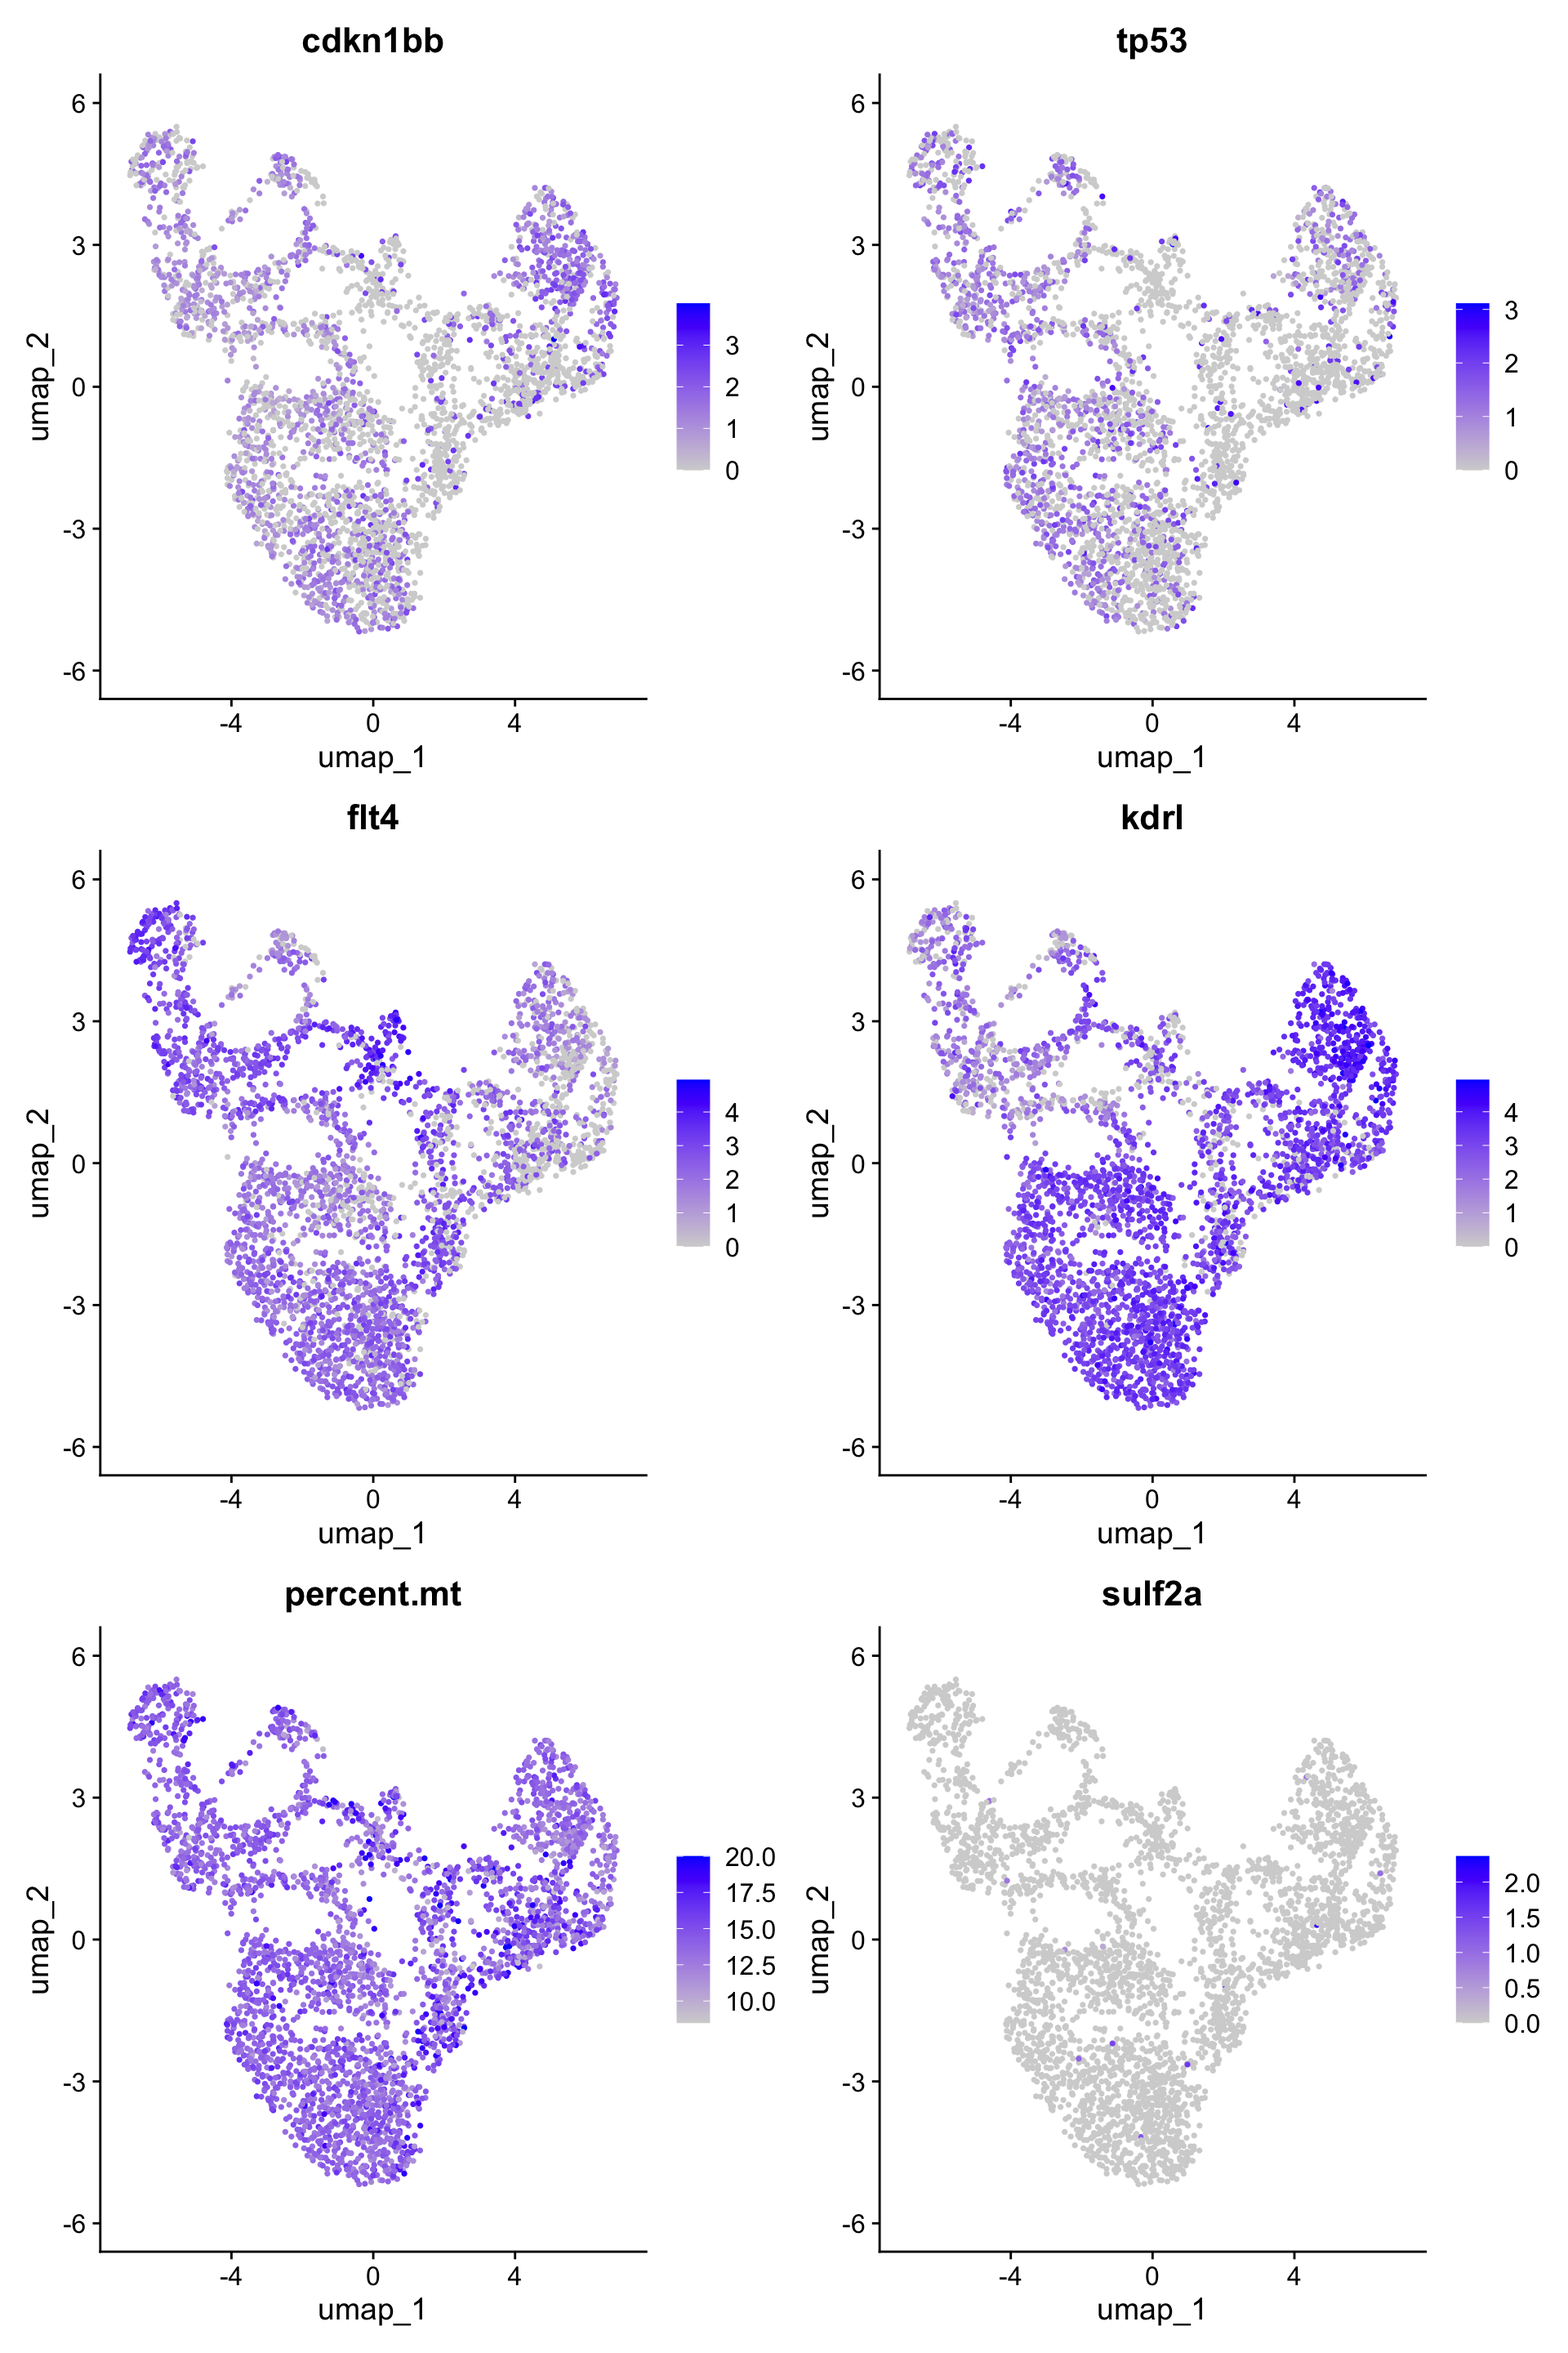
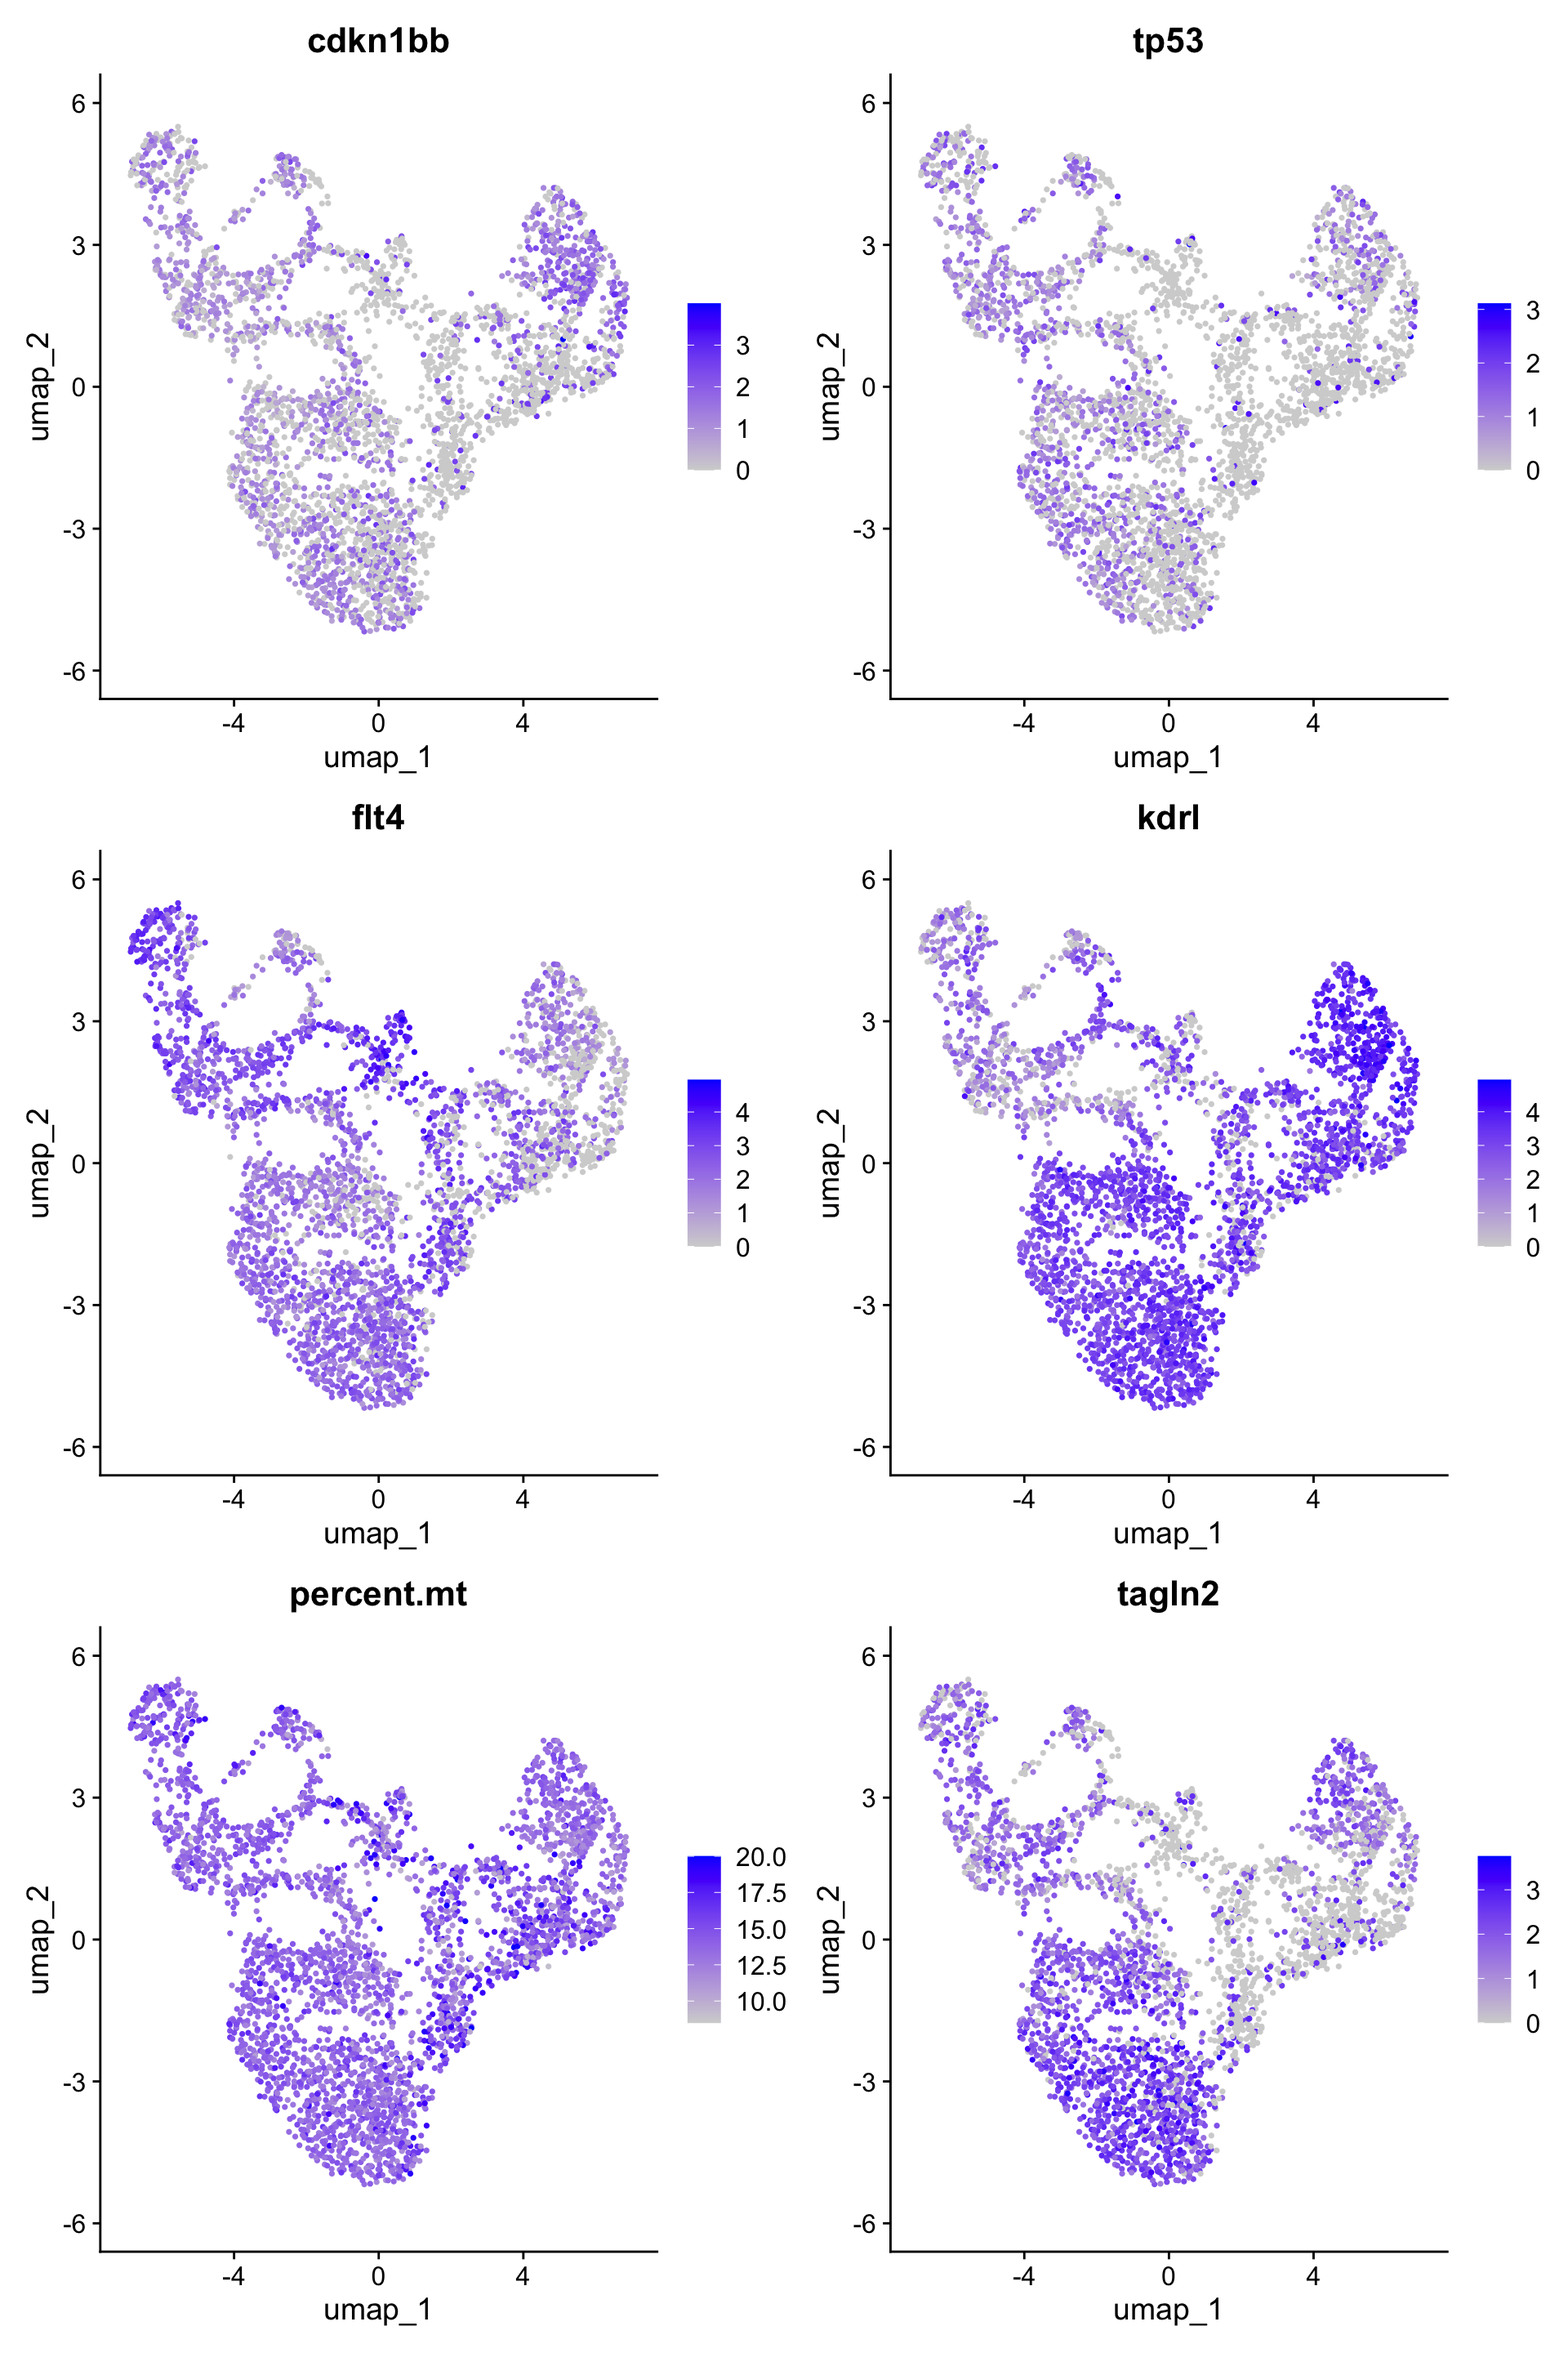
Build site.

diff --git a/docs/pre_processing_D10051_meox1_dataset_makeObject_Level03.html b/docs/pre_processing_D10051_meox1_dataset_makeObject_Level03.html
@@ -519,15 +519,15 @@ project makes it easier to run your code on other machines.</p>
 <div class="panel panel-default">
 <div class="panel-heading">
 <p class="panel-title">
-<a data-toggle="collapse" data-parent="#workflowr-checks" href="#strongRepositoryversionstrongahrefsshgitatlassianpetermacorgau7999hlwflowyap1meox1papertreeca29fdef3a09d66ba2180f88523121b87e1493d4targetblankca29fdea">
+<a data-toggle="collapse" data-parent="#workflowr-checks" href="#strongRepositoryversionstrongahrefsshgitatlassianpetermacorgau7999hlwflowyap1meox1papertree27ff189da5c6510a8d7f5a1b1b13786b9af16ce0targetblank27ff189a">
 <span class="glyphicon glyphicon-ok text-success"
 aria-hidden="true"></span> <strong>Repository version:</strong>
-<a href="ssh://git@atlassian.petermac.org.au:7999/hl/wflow_yap1_meox1_paper/tree/ca29fdef3a09d66ba2180f88523121b87e1493d4" target="_blank">ca29fde</a>
+<a href="ssh://git@atlassian.petermac.org.au:7999/hl/wflow_yap1_meox1_paper/tree/27ff189da5c6510a8d7f5a1b1b13786b9af16ce0" target="_blank">27ff189</a>
 </a>
 </p>
 </div>
 <div
[2 lines of base64/hex data omitted]
 class="panel-collapse collapse">
 <div class="panel-body">
 <p>
@@ -537,7 +537,7 @@ reproducibility.
 </p>
 <p>
 The results in this page were generated with repository version
-<a href="ssh://git@atlassian.petermac.org.au:7999/hl/wflow_yap1_meox1_paper/tree/ca29fdef3a09d66ba2180f88523121b87e1493d4" target="_blank">ca29fde</a>.
+<a href="ssh://git@atlassian.petermac.org.au:7999/hl/wflow_yap1_meox1_paper/tree/27ff189da5c6510a8d7f5a1b1b13786b9af16ce0" target="_blank">27ff189</a>.
 See the <em>Past versions</em> tab to see a history of the changes made
 to the R Markdown and HTML files.
 </p>
@@ -619,6 +619,40 @@ Message
 </tr>
 </thead>
 <tbody>
+<tr>
+<td>
+Rmd
+</td>
+<td>
+<a href="ssh://git@atlassian.petermac.org.au:7999/hl/wflow_yap1_meox1_paper/blob/27ff189da5c6510a8d7f5a1b1b13786b9af16ce0/analysis/pre_processing_D10051_meox1_dataset_makeObject_Level03.Rmd" target="_blank">27ff189</a>
+</td>
+<td>
+Michelle Meier
+</td>
+<td>
+2026-06-21
+</td>
+<td>
+wflow_publish("analysis/pre_processing_D10051_meox1_dataset_makeObject_Level03.Rmd")
+</td>
+</tr>
+<tr>
+<td>
+html
+</td>
+<td>
+<a href="ssh://git@atlassian.petermac.org.au:7999/hl/wflow_yap1_meox1_paper/blob/675a1e0b51756815072b9acd05d407a01887abad/docs/pre_processing_D10051_meox1_dataset_makeObject_Level03.html" target="_blank">675a1e0</a>
+</td>
+<td>
+Michelle Meier
+</td>
+<td>
+2026-06-21
+</td>
+<td>
+Build site.
+</td>
+</tr>
 <tr>
 <td>
 Rmd
@@ -755,8 +789,8 @@ list_objects$D10051_meox1_dataset_Level_03 &lt;- run_subset_lecvec(list_objects$
 <pre class="r"><code>list_objects$D10051_meox1_dataset_Level_02_kept_doublets_annotated &lt;- list_objects$D10051_meox1_dataset_Level_02_annotated &lt;- NULL
 gc()</code></pre>
 <pre><code>           used  (Mb) gc trigger   (Mb) limit (Mb)  max used   (Mb)
-Ncells 12048873 643.5   19738832 1054.2         NA  16746022  894.4
-Vcells 87077870 664.4  281444112 2147.3      49152 348043885 2655.4</code></pre>
+Ncells 12048844 643.5   19640571 1049.0         NA  16745993  894.4
+Vcells 87078018 664.4  281444455 2147.3      49152 348044033 2655.4</code></pre>
 <p>Replace name in object</p>
 <pre class="r"><code>list_objects$D10051_meox1_dataset_Level_03_kept_doublets@misc$name &lt;- &quot;Level_03_kept_doublets&quot;
 list_objects$D10051_meox1_dataset_Level_03@misc$name &lt;- &quot;Level_03&quot;</code></pre>
@@ -819,21 +853,21 @@ Negative:  emid1, diaph2, podxl, CR848683.2, cav1, col8a2, tmem108, lrmda, pola1
 <pre><code>Warning: The default method for RunUMAP has changed from calling Python UMAP via reticulate to the R-native UWOT using the cosine metric
 To use Python UMAP via reticulate, set umap.method to &#39;umap-learn&#39; and metric to &#39;correlation&#39;
 This message will be shown once per session</code></pre>
-<pre><code>17:08:48 UMAP embedding parameters a = 0.9922 b = 1.112</code></pre>
-<pre><code>17:08:48 Read 4418 rows and found 30 numeric columns</code></pre>
-<pre><code>17:08:48 Using Annoy for neighbor search, n_neighbors = 30</code></pre>
-<pre><code>17:08:48 Building Annoy index with metric = cosine, n_trees = 50</code></pre>
+<pre><code>17:27:56 UMAP embedding parameters a = 0.9922 b = 1.112</code></pre>
+<pre><code>17:27:56 Read 4418 rows and found 30 numeric columns</code></pre>
+<pre><code>17:27:56 Using Annoy for neighbor search, n_neighbors = 30</code></pre>
+<pre><code>17:27:56 Building Annoy index with metric = cosine, n_trees = 50</code></pre>
 <pre><code>0%   10   20   30   40   50   60   70   80   90   100%</code></pre>
 <pre><code>[----|----|----|----|----|----|----|----|----|----|</code></pre>
 <pre><code>**************************************************|
-17:08:48 Writing NN index file to temp file /var/folders/cx/d_5b9pls2cq2mv2m5jlps271lnn8nd/T//RtmpgXT0U0/file15a2612c779c7
-17:08:48 Searching Annoy index using 1 thread, search_k = 3000
-17:08:49 Annoy recall = 100%
-17:08:49 Commencing smooth kNN distance calibration using 1 thread with target n_neighbors = 30
-17:08:50 Initializing from normalized Laplacian + noise (using RSpectra)
-17:08:50 Commencing optimization for 500 epochs, with 181930 positive edges
-17:08:50 Using rng type: pcg
-17:08:53 Optimization finished
+17:27:56 Writing NN index file to temp file /var/folders/cx/d_5b9pls2cq2mv2m5jlps271lnn8nd/T//RtmpxZDzYG/file15d3959e7f2fa
+17:27:56 Searching Annoy index using 1 thread, search_k = 3000
+17:27:57 Annoy recall = 100%
+17:27:57 Commencing smooth kNN distance calibration using 1 thread with target n_neighbors = 30
+17:27:58 Initializing from normalized Laplacian + noise (using RSpectra)
+17:27:58 Commencing optimization for 500 epochs, with 181930 positive edges
+17:27:58 Using rng type: pcg
+17:28:01 Optimization finished
 Computing nearest neighbor graph
 Computing SNN</code></pre>
 <pre><code>Modularity Optimizer version 1.3.0 by Ludo Waltman and Nees Jan van Eck
@@ -967,21 +1001,21 @@ Positive:  pola1, tmem108, prim2, ctdp1, mmrn2a, CR848683.2, rad18, pole, lig1, 
 Negative:  hmgn2, osr2, hmgb2a, cdc20, ube2c, tuba1b, tp53inp2, mafa, actb1, hmgb2b 
        si:ch73-281n10.2, h3f3b.1, kmt5ab, ccnb1, si:ch211-288g17.3, kif11, nusap1, aspm, hmga1a, h2ax1 
        hnrnpa0b, cdca8, marcksl1a, pttg1, kpna2, dlgap5, cdc14b, hspe1, glula, si:ch211-69g19.2 
-17:09:04 UMAP embedding parameters a = 0.9922 b = 1.112
-17:09:04 Read 3349 rows and found 30 numeric columns
-17:09:04 Using Annoy for neighbor search, n_neighbors = 30
-17:09:04 Building Annoy index with metric = cosine, n_trees = 50
+17:28:12 UMAP embedding parameters a = 0.9922 b = 1.112
+17:28:12 Read 3349 rows and found 30 numeric columns
+17:28:12 Using Annoy for neighbor search, n_neighbors = 30
+17:28:12 Building Annoy index with metric = cosine, n_trees = 50
 0%   10   20   30   40   50   60   70   80   90   100%
 [----|----|----|----|----|----|----|----|----|----|
 **************************************************|
-17:09:04 Writing NN index file to temp file /var/folders/cx/d_5b9pls2cq2mv2m5jlps271lnn8nd/T//RtmpgXT0U0/file15a26660c0172
-17:09:04 Searching Annoy index using 1 thread, search_k = 3000
-17:09:04 Annoy recall = 100%
-17:09:05 Commencing smooth kNN distance calibration using 1 thread with target n_neighbors = 30
-17:09:05 Initializing from normalized Laplacian + noise (using RSpectra)
-17:09:05 Commencing optimization for 500 epochs, with 136526 positive edges
-17:09:05 Using rng type: pcg
-17:09:08 Optimization finished
+17:28:12 Writing NN index file to temp file /var/folders/cx/d_5b9pls2cq2mv2m5jlps271lnn8nd/T//RtmpxZDzYG/file15d39b012933
+17:28:12 Searching Annoy index using 1 thread, search_k = 3000
+17:28:13 Annoy recall = 100%
+17:28:13 Commencing smooth kNN distance calibration using 1 thread with target n_neighbors = 30
+17:28:14 Initializing from normalized Laplacian + noise (using RSpectra)
+17:28:14 Commencing optimization for 500 epochs, with 136526 positive edges
+17:28:14 Using rng type: pcg
+17:28:16 Optimization finished
 Computing nearest neighbor graph
 Computing SNN</code></pre>
 <pre><code>Modularity Optimizer version 1.3.0 by Ludo Waltman and Nees Jan van Eck
@@ -1259,6 +1293,17 @@ Date
 <tbody>
 <tr>
 <td>
+<a href="ssh://git@atlassian.petermac.org.au:7999/hl/wflow_yap1_meox1_paper/blob/675a1e0b51756815072b9acd05d407a01887abad/docs/figure/pre_processing_D10051_meox1_dataset_makeObject_Level03.Rmd/unnamed-chunk-14-1.png" target="_blank">675a1e0</a>
+</td>
+<td>
+Michelle Meier
+</td>
+<td>
+2026-06-21
+</td>
+</tr>
+<tr>
+<td>
 <a href="ssh://git@atlassian.petermac.org.au:7999/hl/wflow_yap1_meox1_paper/blob/056ab8b5361af0e7dadcd5cfac0b8f74db1cf91b/docs/figure/pre_processing_D10051_meox1_dataset_makeObject_Level03.Rmd/unnamed-chunk-14-1.png" target="_blank">056ab8b</a>
 </td>
 <td>
@@ -1275,8 +1320,45 @@ Michelle Meier
 </div>
 <div id="some-other-gene-expression-plots" class="section level2">
 <h2>Some other gene expression plots</h2>
-<pre class="r"><code>FeaturePlot(list_objects$D10051_meox1_dataset_Level_03, features = c(&quot;cdkn1bb&quot;, &quot;tp53&quot;, &quot;flt4&quot;, &quot;kdrl&quot;, &quot;percent.mt&quot;, &quot;sulf2a&quot;))</code></pre>
+<pre class="r"><code>FeaturePlot(list_objects$D10051_meox1_dataset_Level_03, features = c(&quot;cdkn1bb&quot;, &quot;tp53&quot;, &quot;flt4&quot;, &quot;kdrl&quot;, &quot;percent.mt&quot;, &quot;tagln2&quot;))</code></pre>
 <p><img src="figure/pre_processing_D10051_meox1_dataset_makeObject_Level03.Rmd/unnamed-chunk-15-1.png" width="960" style="display: block; margin: auto;" /></p>
+<p>
+<button type="button" class="btn btn-default btn-xs btn-workflowr btn-workflowr-fig" data-toggle="collapse" data-target="#fig-unnamed-chunk-15-1">
+Past versions of unnamed-chunk-15-1.png
+</button>
+</p>
+<div id="fig-unnamed-chunk-15-1" class="collapse">
+<div class="table-responsive">
+<table class="table table-condensed table-hover">
+<thead>
+<tr>
+<th>
+Version
+</th>
+<th>
+Author
+</th>
+<th>
+Date
+</th>
+</tr>
+</thead>
+<tbody>
+<tr>
+<td>
+<a href="ssh://git@atlassian.petermac.org.au:7999/hl/wflow_yap1_meox1_paper/blob/675a1e0b51756815072b9acd05d407a01887abad/docs/figure/pre_processing_D10051_meox1_dataset_makeObject_Level03.Rmd/unnamed-chunk-15-1.png" target="_blank">675a1e0</a>
+</td>
+<td>
+Michelle Meier
+</td>
+<td>
+2026-06-21
+</td>
+</tr>
+</tbody>
+</table>
+</div>
+</div>
 </div>
 <div id="low-quality-clusters" class="section level2">
 <h2>Low quality clusters</h2>
@@ -1324,6 +1406,17 @@ Date
 </tr>
 </thead>
 <tbody>
+<tr>
+<td>
+<a href="ssh://git@atlassian.petermac.org.au:7999/hl/wflow_yap1_meox1_paper/blob/675a1e0b51756815072b9acd05d407a01887abad/docs/figure/pre_processing_D10051_meox1_dataset_makeObject_Level03.Rmd/unnamed-chunk-16-1.png" target="_blank">675a1e0</a>
+</td>
+<td>
+Michelle Meier
+</td>
+<td>
+2026-06-21
+</td>
+</tr>
 <tr>
 <td>
 <a href="ssh://git@atlassian.petermac.org.au:7999/hl/wflow_yap1_meox1_paper/blob/056ab8b5361af0e7dadcd5cfac0b8f74db1cf91b/docs/figure/pre_processing_D10051_meox1_dataset_makeObject_Level03.Rmd/unnamed-chunk-16-1.png" target="_blank">056ab8b</a>
@@ -1378,6 +1471,43 @@ markers_low %&gt;%
   scale_colour_gradient2(low=&quot;green4&quot;, high = &quot;purple4&quot;, mid = &quot;grey80&quot;)</code></pre>
 <pre><code>Joining with `by = join_by(cluster)`</code></pre>
 <p><img src="figure/pre_processing_D10051_meox1_dataset_makeObject_Level03.Rmd/unnamed-chunk-18-1.png" width="1152" style="display: block; margin: auto;" /></p>
+<p>
+<button type="button" class="btn btn-default btn-xs btn-workflowr btn-workflowr-fig" data-toggle="collapse" data-target="#fig-unnamed-chunk-18-1">
+Past versions of unnamed-chunk-18-1.png
+</button>
+</p>
+<div id="fig-unnamed-chunk-18-1" class="collapse">
+<div class="table-responsive">
+<table class="table table-condensed table-hover">
+<thead>
+<tr>
+<th>
+Version
+</th>
+<th>
+Author
+</th>
+<th>
+Date
+</th>
+</tr>
+</thead>
+<tbody>
+<tr>
+<td>
+<a href="ssh://git@atlassian.petermac.org.au:7999/hl/wflow_yap1_meox1_paper/blob/675a1e0b51756815072b9acd05d407a01887abad/docs/figure/pre_processing_D10051_meox1_dataset_makeObject_Level03.Rmd/unnamed-chunk-18-1.png" target="_blank">675a1e0</a>
+</td>
+<td>
+Michelle Meier
+</td>
+<td>
+2026-06-21
+</td>
+</tr>
+</tbody>
+</table>
+</div>
+</div>
 <p>Clusters 1,5, and 7 show a different pattern of DEGs, with the vast
 majority of DEGs being downregulated. All of this does make it look like
 these cells are probably low quality and should be removed…</p>
